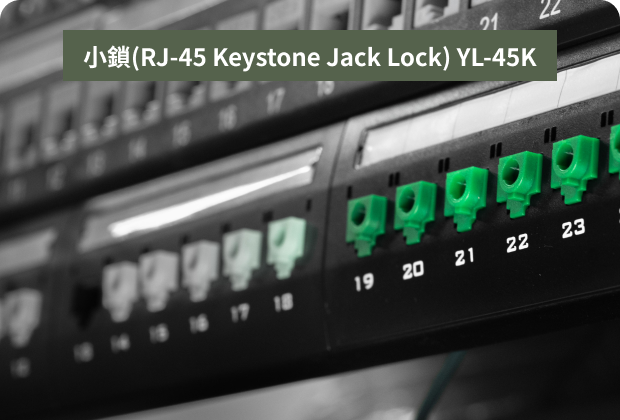
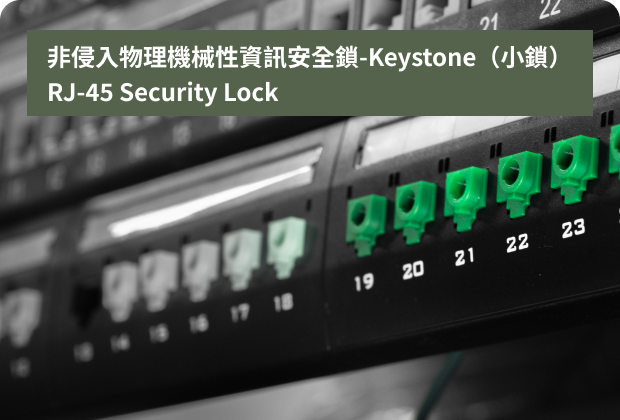
English added

Changed region(s): [[0.0306, 0.0619, 0.9806, 0.2786]]

diff --git a/Public/en/index.html b/Public/en/index.html
@@ -121,7 +121,8 @@
           />
         </svg>
         <h1>
-          攜手共創整合創新 <br /><span class="primary">引領弱電系統整合</span>
+          Foster connectivity, innovation, and
+          <span class="primary">leadership in weak electrical systems.</span>
         </h1>
         <p>
           We specialize in integrating communication, information, network, and
@@ -190,7 +191,7 @@
           continually pursuing distinctive innovations and breakthroughs to
           adapt to the ever-evolving landscape of our times.
         </p>
-        <img src="/src/home/history.png" alt="" width="1092" />
+        <img src="/src/home/history-en.png" alt="" width="1092" />
       </div>
       <div class="img-blocks">
         <div><img src="/src/home/products.png" alt="" /></div>
@@ -200,7 +201,7 @@
         <div class="plugs"><img src="/src/home/plugs.png" alt="" /></div>
       </div>
     </div>
-    <div class="inner-section">
+    <!-- <div class="inner-section">
       <div class="product-section">
         <h2 class="white">Patented Products</h2>
         <p class="white">
@@ -210,10 +211,10 @@
           我們深知客户的需求，整合通訊、資訊、網路、安全辦公室自動化等專業領域，不斷創新突破，將弱電系統整合，作為主要經營區塊。我們堅持扎實自身的基礎、時以進修來滿足高端應用的需求，同時用心傾聽與呵護每一個案例，不斷進行獨特的創新和突破，以適應時代的升級與變遷。
         </p>
       </div>
-    </div>
+    </div> -->
     <div class="patented-section two-card inner-section">
       <div>
-        <img src="/src/home/yl-45p.png" alt="" />
+        <img src="/src/home/yl-45p-en.png" alt="" />
         <ul>
           <li>Various Colors, customizable as well</li>
           <li>Complies with ANSI/TIA/EIA-606 Cable Color Codes</li>
@@ -228,7 +229,7 @@
         </ul>
       </div>
       <div>
-        <img src="/src/home/yl-45k.png" alt="" />
+        <img src="/src/home/yl-45k-en.png" alt="" />
         <ul>
           <li>Various Colors, customizable as well</li>
           <li>

diff --git a/Public/en/brand-agency-sales.html b/Public/en/brand-agency-sales.html
@@ -115,15 +115,18 @@
         <div class="agency-name">
           <p>R&M</p>
           <ul>
-            <li>全球Cabling的百大品牌，位居前10名</li>
-            <li>瑞士第一大 Cabling 製造商</li>
-            <li>公司重視質量且創新，其產品涵蓋銅纜與光纖</li>
+            <li>Top 10 Brands in Global Cabling</li>
+            <li>Switzerland's largest cabling manufacturer</li>
+            <li>
+              The company emphasizes quality and innovation, with products
+              covering both copper and fiber optic cables.
+            </li>
           </ul>
           <a
             href="https://www.rdm.com/"
             class="white contact-us-btn"
             target="_blank"
-            >進入官網查看更多資訊</a
+            >Learn More</a
           >
         </div>
       </div>
@@ -134,15 +137,15 @@
         <div class="agency-name">
           <p>TREND Networks</p>
           <ul>
-            <li>全球網路儀錶製造商之一</li>
-            <li>前身為 IDEAL Networks 其中之一的部門</li>
-            <li>現於英國為一間獨立公司</li>
+            <li>One of the global network instrumentation manufacturers</li>
+            <li>Formerly a division of IDEAL Networks</li>
+            <li>Now an independent company based in the United Kingdom</li>
           </ul>
           <a
             href="https://www.trend-networks.com/"
             class="white contact-us-btn"
             target="_blank"
-            >進入官網查看更多資訊</a
+            >Learn More</a
           >
         </div>
       </div>

diff --git a/Public/zh/index.html b/Public/zh/index.html
@@ -177,7 +177,7 @@
         <div class="plugs"><img src="/src/home/plugs.png" alt="" /></div>
       </div>
     </div>
-    <div class="inner-section">
+    <!-- <div class="inner-section">
       <div class="product-section">
         <h2 class="white">專利產品</h2>
         <p class="white">
@@ -187,7 +187,7 @@
           我們深知客户的需求，整合通訊、資訊、網路、安全辦公室自動化等專業領域，不斷創新突破，將弱電系統整合，作為主要經營區塊。我們堅持扎實自身的基礎、時以進修來滿足高端應用的需求，同時用心傾聽與呵護每一個案例，不斷進行獨特的創新和突破，以適應時代的升級與變遷。
         </p>
       </div>
-    </div>
+    </div> -->
     <div class="patented-section two-card inner-section">
       <div>
         <img src="/src/home/yl-45p.png" alt="" />

diff --git a/Public/en/patented-products.html b/Public/en/patented-products.html
@@ -372,7 +372,7 @@
       </div>
     </div>
     <div class="inner-section">
-      <img src="/src/patented-products/6-1.png" alt="" />
+      <img src="/src/patented-products/6-1-en.png" alt="" />
     </div>
     <div class="inner-section contact-container">
       <div class="contact-card white-card">

diff --git a/Public/css/global.css b/Public/css/global.css
@@ -26,6 +26,10 @@ body {
   background-color: #fafaf3;
 }
 
+button {
+  font-family: "Poppins", "Noto Sans TC";
+}
+
 h1 {
   font-size: 60px;
   font-family: "Noto Sans TC";
